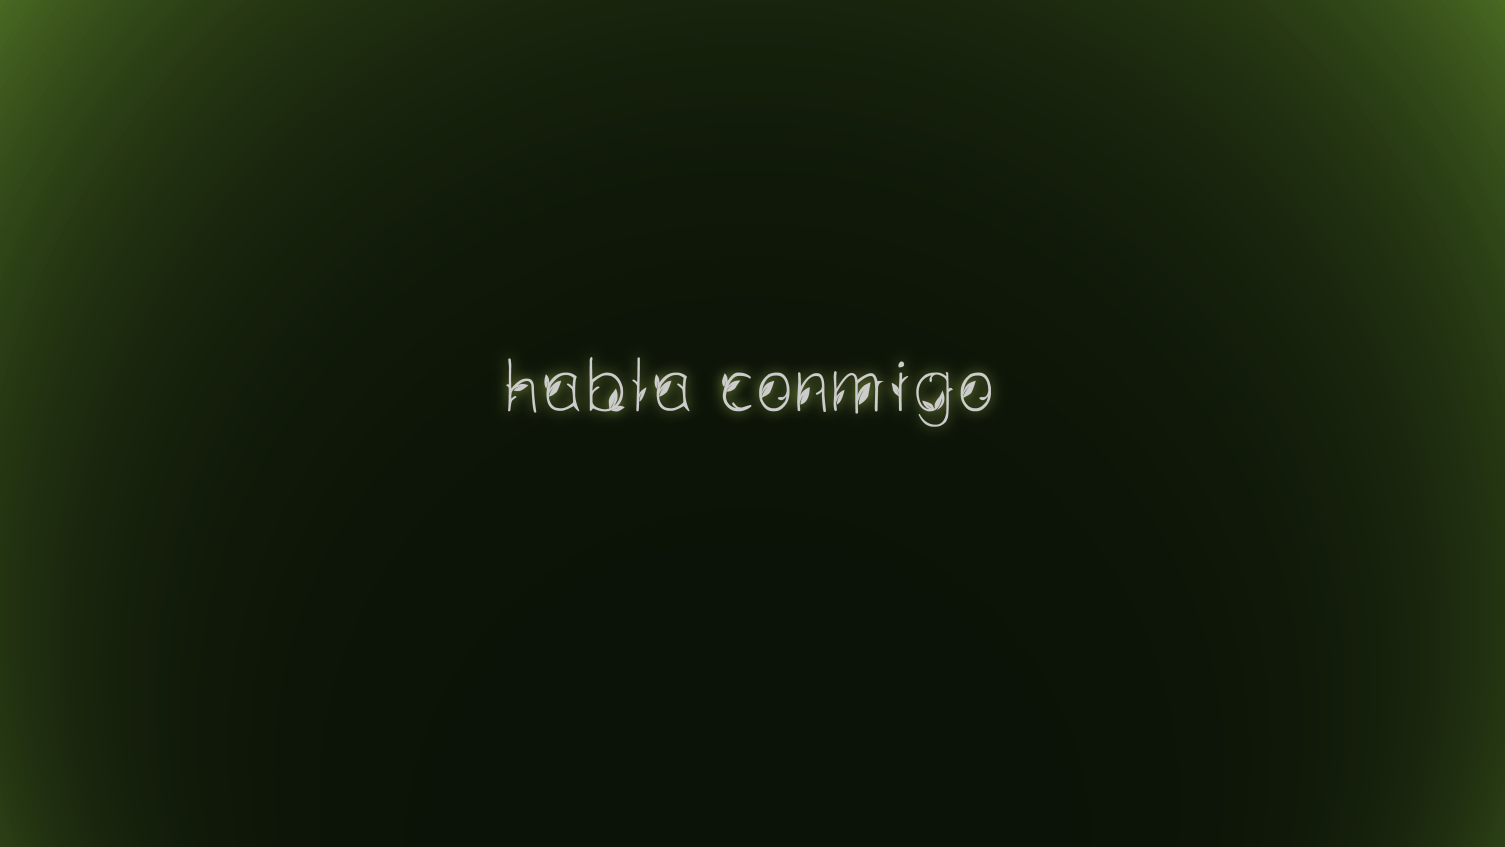
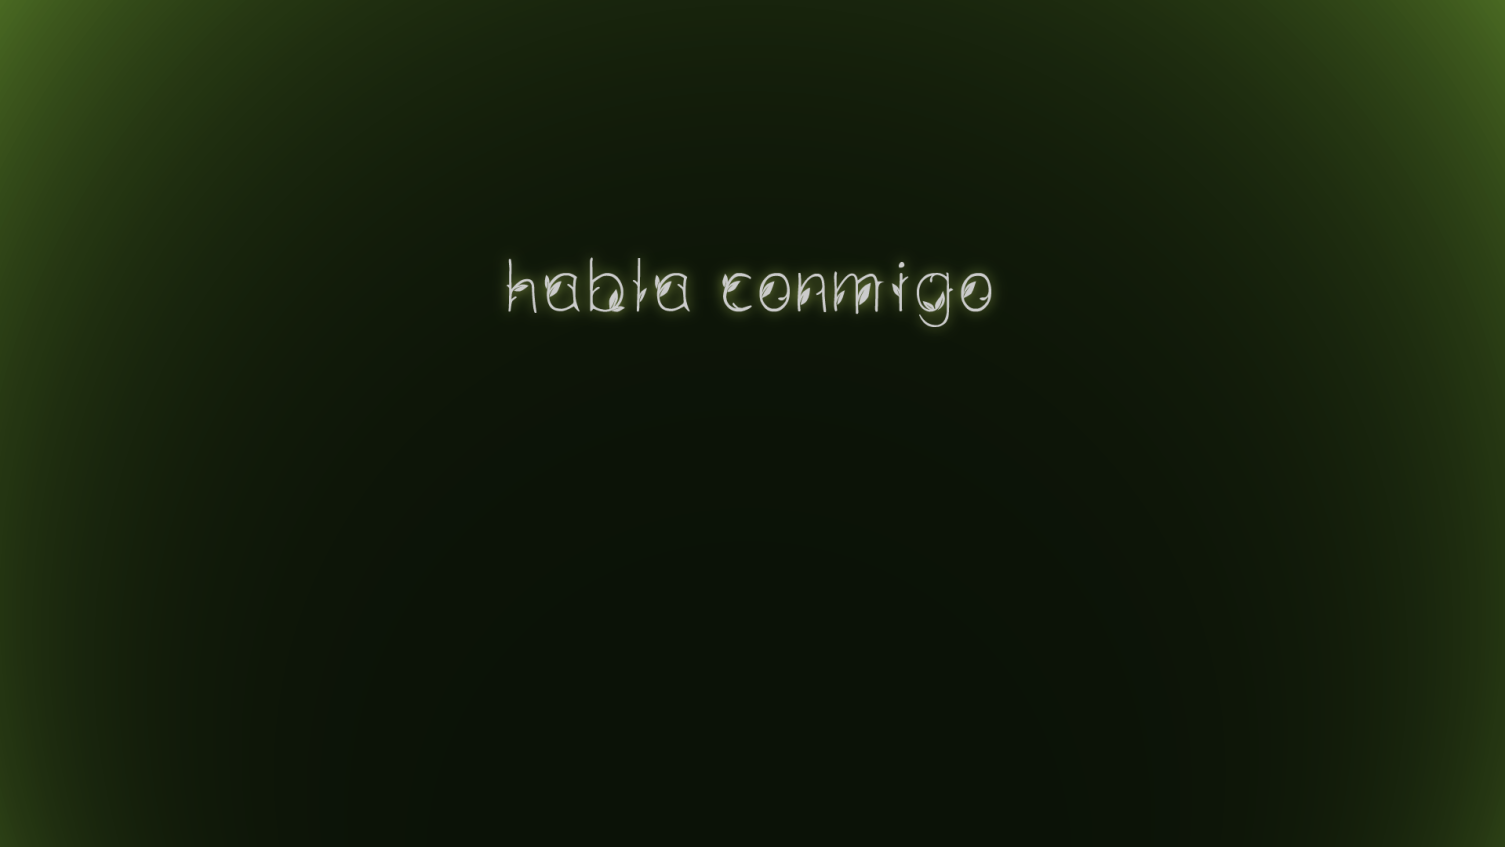
ui finalized

Changed region(s): [[0.3123, 0.4298, 0.6558, 0.5218], [0.3123, 0.307, 0.6558, 0.3991]]

diff --git a/Sentiment Analysis/sentiment.py b/Sentiment Analysis/sentiment.py
@@ -46,12 +46,15 @@ def build_app():
             hSizer = wx.BoxSizer(wx.HORIZONTAL)
 
             btn_bmp = wx.Bitmap("plant_ui_button.png")
-            sendButton = wx.BitmapButton(self, id=wx.ID_ANY, bitmap=btn_bmp, pos=(1400,650))
+            sendButton = wx.BitmapButton(self, id=wx.ID_ANY, bitmap=btn_bmp, pos=(1400,595))
             self.Bind(wx.EVT_BUTTON, self.OnSend, sendButton)
             sizer.Add(sendButton, 0, wx.ALL, 5)
 
-            self.input = wx.TextCtrl(self, style=wx.TE_MULTILINE, size=wx.Size(800, 200), pos=(550,600))
-            for _ in range(3):
+            self.input = wx.TextCtrl(self, style=wx.TE_MULTILINE|wx.TE_NO_VSCROLL, size=wx.Size(800, 100), pos=(550,600))
+            self.input.SetMaxLength(70)
+            print(self.input.SetMargins(50))
+            
+            for _ in range(5):
                 self.input.SetFont(self.input.GetFont().Larger())
 
             sizer.Add(self.input)
@@ -70,14 +73,16 @@ def build_app():
                 dc.SetClippingRect(rect)
             dc.Clear()
             bmp = wx.Bitmap("plant_ui_base.png")
-            image = wx.ImageFromBitmap(bmp)
+            image = bmp.ConvertToImage()
             image = image.Scale(1920, 1080, wx.IMAGE_QUALITY_HIGH)
-            bmp = wx.BitmapFromImage(image)
+            bmp = wx.Bitmap(image)
             dc.DrawBitmap(bmp, 0, 0)
 
         def OnSend(self, e):
-            test = self.GetText()
-            sentiment_analysis(test)
+            text = self.GetText().strip()
+            if len(text) == 0:
+                return
+            sentiment_analysis(text)
             self.input.Clear()
 
         def GetText(self):
